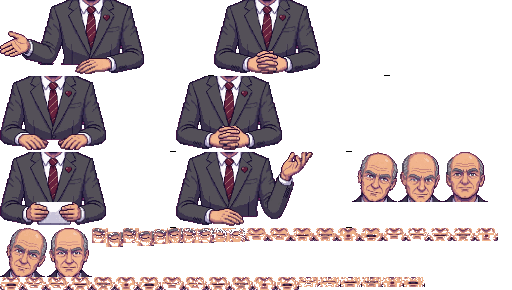
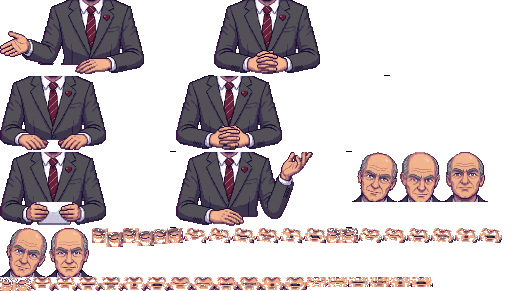
Seated heads: mouth patches follow a head's tilt (shift and rotation fit) (#78)

diff --git a/site/spike-lib/compose.js b/site/spike-lib/compose.js
@@ -18,7 +18,7 @@ export function buildPresenter(cfg, G, ref = G) {
     if (!ref[n]) continue;
     if (s.mode === 'patch') {
       if (fc.register === 'iris') off[n] = headOffsets(ref[P.base], ref[n], ref[P.registerMouth]);
-      else if (fc.register === 'shift') { const B = P.boxes, fit = (box, m) => shiftFit(ref[P.base], ref[n], [box[0] - m, box[1] - m, box[2] + m, box[3] + m]); off[n] = { eyeL: fit(B.EBL, 3), eyeR: fit(B.EBR, 3), mouth: fit(B.MB, 3) }; }
+      else if (fc.register === 'shift') { const B = P.boxes, fit = (box, m) => shiftFit(ref[P.base], ref[n], [box[0] - m, box[1] - m, box[2] + m, box[3] + m]); off[n] = { eyeL: fit(B.EBL, 3), eyeR: fit(B.EBR, 3), mouth: [0, 0] }; const m = shiftFit(ref[P.base], ref[n], [B.MB[0] - 3, B.MB[1] - 3, B.MB[2] + 3, B.MB[3] + 3], 7, true, [(B.MB[0] + B.MB[2]) / 2, (B.MB[1] + B.MB[3]) / 2]); off[n].mouth = [m[0], m[1]]; if (m[2]) off[n].mouthRot = m[2]; }
       else { const c = centres(n), c0 = centres(P.base), m = faceOf(n).mouthFit, m0 = faceOf(P.base).mouthFit; off[n] = { eyeL: [Math.round(c[0][0] - c0[0][0]), Math.round(c[0][1] - c0[0][1])], eyeR: [Math.round(c[1][0] - c0[1][0]), Math.round(c[1][1] - c0[1][1])], mouth: [Math.round(m.cx - m0.cx), Math.round(m.yc - m0.yc)] }; }
       if (s.nudge) { const o = off[n], a = s.nudge; off[n] = { eyeL: [o.eyeL[0] + a.eye, o.eyeL[1]], eyeR: [o.eyeR[0] + a.eye, o.eyeR[1]], mouth: [o.mouth[0] + a.mouth, o.mouth[1]] }; }
     }
@@ -74,17 +74,25 @@ export function composePresenter(F, { head = 'b1', pose = 'b1', feet = 'b1', eye
   return X;
 }
 
-/** The shift [dx, dy] that lays `head` over `base` inside `win` (grid cells): head(x + dx, y + dy) matches base(x, y), by mean luminance difference. For heads that are tilted or nodded a little, where the eye and mouth detectors are not steady. */
-function shiftFit(base, head, win, R = 9) {
-  const lum = c => 0.299 * c[0] + 0.587 * c[1] + 0.114 * c[2];
-  let best = [0, 0], bestE = Infinity;
-  for (let dy = -R; dy <= R; dy++) for (let dx = -R; dx <= R; dx++) {
-    let e = 0, n = 0;
-    for (let y = win[1]; y <= win[3]; y++) for (let x = win[0]; x <= win[2]; x++) { if (!base.has(x, y)) continue; n++; e += head.has(x + dx, y + dy) ? Math.abs(lum(base.get(x, y)) - lum(head.get(x + dx, y + dy))) : 255; }
-    e = n ? e / n + (Math.abs(dx) + Math.abs(dy)) * 0.05 : Infinity;
-    if (e < bestE) { bestE = e; best = [dx, dy]; }
+/** The shift [dx, dy] that lays `head` over `base` inside `win` (grid cells): head(x + dx, y + dy) matches base(x, y), by mean luminance difference. For heads that are tilted or nodded a little, where the eye and mouth detectors are not steady.
+ *  With `rot` it also tries small turns about `c` (the way a mouth patch is laid on a tilted head, see composeFace) and returns [dx, dy, radians]. */
+function shiftFit(base, head, win, R = 9, rot = false, c = [0, 0]) {
+  const lum = p => 0.299 * p[0] + 0.587 * p[1] + 0.114 * p[2];
+  let best = [0, 0, 0], bestE = Infinity;
+  for (const r of rot ? [-0.18, -0.15, -0.12, -0.09, -0.06, -0.03, 0, 0.03, 0.06, 0.09, 0.12, 0.15, 0.18] : [0]) {
+    const co = Math.cos(r), si = Math.sin(r);
+    for (let dy = -R; dy <= R; dy++) for (let dx = -R; dx <= R; dx++) {
+      let e = 0, n = 0;
+      for (let y = win[1]; y <= win[3]; y++) for (let x = win[0]; x <= win[2]; x++) {
+        if (!base.has(x, y)) continue; n++;
+        const rx = x - c[0], ry = y - c[1], hx = Math.round(c[0] + dx + rx * co - ry * si), hy = Math.round(c[1] + dy + rx * si + ry * co);
+        e += head.has(hx, hy) ? Math.abs(lum(base.get(x, y)) - lum(head.get(hx, hy))) : 255;
+      }
+      e = n ? e / n + (Math.abs(dx) + Math.abs(dy)) * 0.05 + Math.abs(r) * 4 : Infinity;
+      if (e < bestE) { bestE = e; best = [dx, dy, r]; }
+    }
   }
-  return best;
+  return rot ? best : [best[0], best[1]];
 }
 
 /** Face of a head that has moved (nods and tilts shift it by several rows): eyes from a wide window, then the mouth window sits about 11 rows below the eyes, perpendicular to the line between them, so it follows a tilt. */
